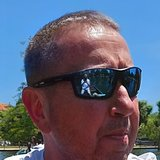
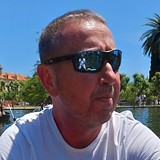
Popraw kadrowanie zdjęcia Tomka

diff --git a/tomek-crop-preview.html b/tomek-crop-preview.html
@@ -1,0 +1,48 @@
+<!doctype html>
+<html lang="pl">
+<head>
+<meta charset="utf-8">
+<meta name="viewport" content="width=device-width,initial-scale=1">
+<title>Podgląd kadrowania zdjęcia Tomka</title>
+<style>
+:root{--bg:#090e19;--card:#12234d;--gold:#e8c84a;--green:#3ecf6e}
+*{box-sizing:border-box}body{margin:0;min-height:100vh;display:grid;place-items:center;background:radial-gradient(circle at top,#203664,transparent 45%),var(--bg);font-family:Arial,sans-serif;color:#fff}
+.wrap{text-align:center;padding:35px}.wrap h1{font-size:25px;margin:0 0 8px}.wrap p{color:#8fa0b9;margin:0 0 30px}
+.compare{display:flex;gap:34px;justify-content:center;flex-wrap:wrap}
+.sample h2{font-size:13px;text-transform:uppercase;letter-spacing:.12em;color:#8fa0b9;margin:0 0 10px}
+.card{position:relative;width:170px;height:230px;overflow:hidden;border-radius:13px;background:linear-gradient(160deg,#0a1628,#0d1f45 45%,#111b3a);box-shadow:0 0 0 2px rgba(62,207,110,.65),0 12px 30px rgba(0,0,0,.45)}
+.card:before{content:"";position:absolute;inset:2px;border:1px solid rgba(180,210,255,.22);border-radius:11px}.top{position:absolute;top:10px;left:11px;color:var(--gold);font-weight:800;font-size:18px}.year{display:block;color:#7791ba;font-size:8px;margin-top:1px}
+.photo{position:absolute;top:45px;left:50%;width:104px;height:104px;transform:translateX(-50%);overflow:hidden;border-radius:50%;border:3px solid rgba(180,210,255,.4);box-shadow:0 4px 15px rgba(0,0,0,.55)}
+.photo img{width:100%;height:100%;object-fit:cover;display:block}
+.proposed img{width:116%;height:116%;max-width:none;transform:translate(-10%,-5%)}
+.name{position:absolute;left:0;right:0;bottom:45px;text-align:center;font-size:17px;font-weight:800;letter-spacing:.06em}
+.stats{position:absolute;left:10px;right:10px;bottom:13px;border-top:1px solid rgba(180,210,255,.2);padding-top:8px;color:var(--gold);font-size:14px}
+.note{max-width:220px;margin:12px auto 0;color:#8fa0b9;font-size:12px;line-height:1.4}
+</style>
+</head>
+<body>
+<main class="wrap">
+  <h1>Kadrowanie zdjęcia Tomka</h1>
+  <p>Porównanie na powiększonej karcie</p>
+  <div class="compare">
+    <section class="sample">
+      <h2>Obecnie</h2>
+      <div class="card">
+        <div class="top">MŚ<span class="year">2026</span></div>
+        <div class="photo"><img src="img/tomek.jpg" alt="Tomek"></div>
+        <div class="name">TOMEK</div><div class="stats">0 PKT</div>
+      </div>
+    </section>
+    <section class="sample">
+      <h2>Propozycja</h2>
+      <div class="card">
+        <div class="top">MŚ<span class="year">2026</span></div>
+        <div class="photo proposed"><img src="img/tomek.jpg" alt="Tomek"></div>
+        <div class="name">TOMEK</div><div class="stats">0 PKT</div>
+      </div>
+      <div class="note">Delikatne powiększenie i przesunięcie twarzy do środka kadru.</div>
+    </section>
+  </div>
+</main>
+</body>
+</html>